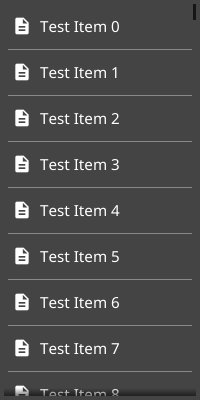
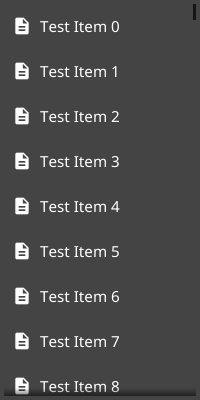
removed dividers

diff --git a/widget/lentry.go b/widget/lentry.go
@@ -119,7 +119,7 @@ func (l *Lentry) Select(id LentryItemID) {
 	if l.scroller == nil {
 		return
 	}
-	y := (float32(id) * l.itemMin.Height) + (float32(id) * theme.SeparatorThicknessSize())
+	y := float32(id) * l.itemMin.Height
 	if y < l.scroller.Offset.Y {
 		l.scroller.Offset.Y = y
 	} else if y+l.itemMin.Height > l.scroller.Offset.Y+l.scroller.Size().Height {
@@ -202,7 +202,7 @@ func (l *lentryRenderer) Layout(size fyne.Size) {
 	}
 
 	// Relayout What Is Visible - no scroll change - initial layout or possibly from a resize.
-	l.visibleItemCount = int(math.Ceil(float64(l.scroller.Size().Height) / float64(l.lentry.itemMin.Height+theme.SeparatorThicknessSize())))
+	l.visibleItemCount = int(math.Ceil(float64(l.scroller.Size().Height) / float64(l.lentry.itemMin.Height)))
 	if l.visibleItemCount <= 0 {
 		return
 	}
@@ -273,7 +273,6 @@ func (l *lentryRenderer) offsetChanged() {
 		// Scrolling Up.
 		l.scrollUp(offsetChange)
 	}
-	l.layout.Layout.(*lentryLayout).updateDividers()
 }
 
 func (l *lentryRenderer) prependItem(id LentryItemID) {
@@ -287,15 +286,14 @@ func (l *lentryRenderer) prependItem(id LentryItemID) {
 
 func (l *lentryRenderer) scrollDown(offsetChange float32) {
 	itemChange := 0
-	separatorThickness := theme.SeparatorThicknessSize()
-	layoutEndY := l.children[len(l.children)-1].Position().Y + l.lentry.itemMin.Height + separatorThickness
+	layoutEndY := l.children[len(l.children)-1].Position().Y + l.lentry.itemMin.Height
 	scrollerEndY := l.scroller.Offset.Y + l.scroller.Size().Height
 	if layoutEndY < scrollerEndY {
-		itemChange = int(math.Ceil(float64(scrollerEndY-layoutEndY) / float64(l.lentry.itemMin.Height+separatorThickness)))
-	} else if offsetChange < l.lentry.itemMin.Height+separatorThickness {
+		itemChange = int(math.Ceil(float64(scrollerEndY-layoutEndY) / float64(l.lentry.itemMin.Height)))
+	} else if offsetChange < l.lentry.itemMin.Height {
 		return
 	} else {
-		itemChange = int(math.Floor(float64(offsetChange) / float64(l.lentry.itemMin.Height+separatorThickness)))
+		itemChange = int(math.Floor(float64(offsetChange) / float64(l.lentry.itemMin.Height)))
 	}
 	l.previousOffsetY = l.lentry.offsetY
 	length := 0
@@ -317,13 +315,12 @@ func (l *lentryRenderer) scrollDown(offsetChange float32) {
 func (l *lentryRenderer) scrollUp(offsetChange float32) {
 	itemChange := 0
 	layoutStartY := l.children[0].Position().Y
-	separatorThickness := theme.SeparatorThicknessSize()
 	if layoutStartY > l.scroller.Offset.Y {
-		itemChange = int(math.Ceil(float64(layoutStartY-l.scroller.Offset.Y) / float64(l.lentry.itemMin.Height+separatorThickness)))
-	} else if offsetChange < l.lentry.itemMin.Height+separatorThickness {
+		itemChange = int(math.Ceil(float64(layoutStartY-l.scroller.Offset.Y) / float64(l.lentry.itemMin.Height)))
+	} else if offsetChange < l.lentry.itemMin.Height {
 		return
 	} else {
-		itemChange = int(math.Floor(float64(offsetChange) / float64(l.lentry.itemMin.Height+separatorThickness)))
+		itemChange = int(math.Floor(float64(offsetChange) / float64(l.lentry.itemMin.Height)))
 	}
 	l.previousOffsetY = l.lentry.offsetY
 	for i := 0; i < itemChange && l.firstItemIndex != 0; i++ {
@@ -494,18 +491,15 @@ func (l *lentryLayout) Layout(objects []fyne.CanvasObject, size fyne.Size) {
 	y := float32(0)
 	for _, child := range l.children {
 		child.Move(fyne.NewPos(0, y))
-		y += l.lentry.itemMin.Height + theme.SeparatorThicknessSize()
+		y += l.lentry.itemMin.Height
 		child.Resize(fyne.NewSize(l.lentry.size.Width, l.lentry.itemMin.Height))
 	}
 	l.layoutEndY = y
-	l.updateDividers()
 }
 
 func (l *lentryLayout) MinSize(objects []fyne.CanvasObject) fyne.Size {
 	if f := l.lentry.Length; f != nil {
-		separatorThickness := theme.SeparatorThicknessSize()
-		return fyne.NewSize(l.lentry.itemMin.Width,
-			(l.lentry.itemMin.Height+separatorThickness)*float32(f())-separatorThickness)
+		return fyne.NewSize(l.lentry.itemMin.Width, l.lentry.itemMin.Height*float32(f()))
 	}
 	return fyne.NewSize(0, 0)
 }
@@ -518,7 +512,7 @@ func (l *lentryLayout) getObjects() []fyne.CanvasObject {
 
 func (l *lentryLayout) appendedItem(objects []fyne.CanvasObject) {
 	if len(objects) > 1 {
-		objects[len(objects)-1].Move(fyne.NewPos(0, objects[len(objects)-2].Position().Y+l.lentry.itemMin.Height+theme.SeparatorThicknessSize()))
+		objects[len(objects)-1].Move(fyne.NewPos(0, objects[len(objects)-2].Position().Y+l.lentry.itemMin.Height))
 	} else {
 		objects[len(objects)-1].Move(fyne.NewPos(0, 0))
 	}
@@ -526,30 +520,6 @@ func (l *lentryLayout) appendedItem(objects []fyne.CanvasObject) {
 }
 
 func (l *lentryLayout) prependedItem(objects []fyne.CanvasObject) {
-	objects[0].Move(fyne.NewPos(0, objects[1].Position().Y-l.lentry.itemMin.Height-theme.SeparatorThicknessSize()))
+	objects[0].Move(fyne.NewPos(0, objects[1].Position().Y-l.lentry.itemMin.Height))
 	objects[0].Resize(fyne.NewSize(l.lentry.size.Width, l.lentry.itemMin.Height))
-}
-
-func (l *lentryLayout) updateDividers() {
-	if len(l.children) > 1 {
-		if len(l.dividers) > len(l.children) {
-			l.dividers = l.dividers[:len(l.children)]
-		} else {
-			for i := len(l.dividers); i < len(l.children); i++ {
-				l.dividers = append(l.dividers, NewSeparator())
-			}
-		}
-	} else {
-		l.dividers = nil
-	}
-
-	separatorThickness := theme.SeparatorThicknessSize()
-	for i, child := range l.children {
-		if i == 0 {
-			continue
-		}
-		l.dividers[i].Move(fyne.NewPos(theme.Padding(), child.Position().Y-separatorThickness))
-		l.dividers[i].Resize(fyne.NewSize(l.lentry.Size().Width-(theme.Padding()*2), separatorThickness))
-		l.dividers[i].Show()
-	}
 }

diff --git a/widget/lentry_test.go b/widget/lentry_test.go
@@ -73,15 +73,14 @@ func TestLentry_Resize(t *testing.T) {
 
 	w.Resize(fyne.NewSize(200, 600))
 
-	indexChange := int(math.Floor(float64(200) / float64(template.MinSize().Height)))
-
 	newFirstItemIndex := test.WidgetRenderer(lentry).(*lentryRenderer).firstItemIndex
 	newLastItemIndex := test.WidgetRenderer(lentry).(*lentryRenderer).lastItemIndex
 	newVisibleCount := len(test.WidgetRenderer(lentry).(*lentryRenderer).children)
+	expectedNewLastItemIndex := int(math.Ceil(float64(600)/float64(template.MinSize().Height))) + newFirstItemIndex
 
 	assert.Equal(t, firstItemIndex, newFirstItemIndex)
 	assert.NotEqual(t, lastItemIndex, newLastItemIndex)
-	assert.Equal(t, newLastItemIndex, lastItemIndex+indexChange)
+	assert.Equal(t, expectedNewLastItemIndex, newLastItemIndex)
 	assert.NotEqual(t, visibleCount, newVisibleCount)
 	assert.Equal(t, newVisibleCount, newLastItemIndex-newFirstItemIndex+1)
 	test.AssertRendersToMarkup(t, "lentry/resized.xml", w.Canvas())

diff --git a/cmd/dev/main.go b/cmd/dev/main.go
@@ -1,0 +1,22 @@
+package main
+
+import (
+	"fyne.io/fyne/v2"
+	"fyne.io/fyne/v2/app"
+	"fyne.io/fyne/v2/widget"
+)
+
+func main() {
+	myApp := app.New()
+	myWindow := myApp.NewWindow("Lentry")
+	data := []string{"a[_", "b[_", "c[_"}
+
+	content := widget.NewLentry(
+		func() int { return len(data) },
+		func() fyne.CanvasObject { return widget.NewLabel("Template") },
+		func(i int, o fyne.CanvasObject) { o.(*widget.Label).SetText(data[i]) },
+	)
+	myWindow.SetContent(content)
+	myWindow.Resize(fyne.NewSize(200.0, 200.0))
+	myWindow.ShowAndRun()
+}
